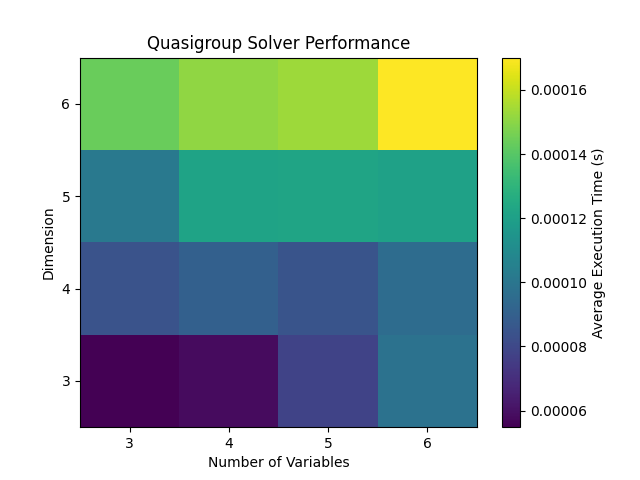
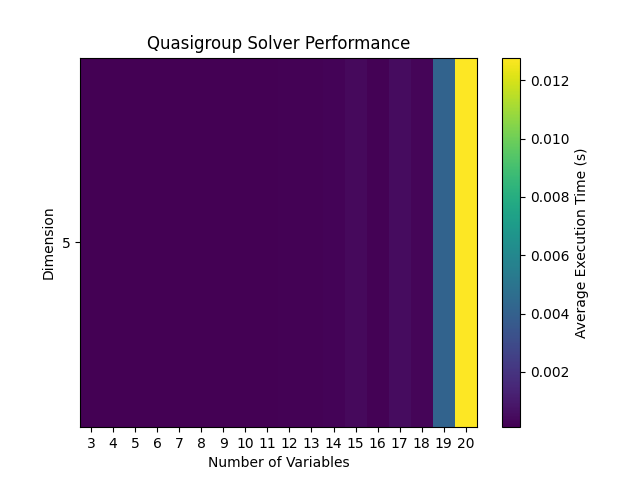
Quantum performance

diff --git a/solver.py b/solver.py
@@ -3,8 +3,70 @@ import argparse
 import copy
 import dimod
 import time
+import random
+import matplotlib.pyplot as plt
+import numpy as np
 from dimod.generators.constraints import combinations
 from hybrid.reference import KerberosSampler
+
+def generate_quasigroup_problem(dimension, num_variables):
+    # Genera un cuadrado latino completo
+    latin_square = [[(i + j) % dimension + 1 for i in range(dimension)] for j in range(dimension)]
+    
+    # Revuelve el cuadrado latino
+    random.shuffle(latin_square)
+    for row in latin_square:
+        random.shuffle(row)
+
+    # Quita algunas celdas para crear el problema de quasigroup with holes
+    variables_to_remove = num_variables
+    while variables_to_remove > 0:
+        i, j = random.randint(0, dimension - 1), random.randint(0, dimension - 1)
+        if latin_square[i][j] != 0:
+            latin_square[i][j] = 0
+            variables_to_remove -= 1
+
+    return latin_square
+
+def run_performance_tests(start_dim, end_dim, start_vars, end_vars):
+    performance_data = np.zeros((end_dim - start_dim + 1, end_vars - start_vars + 1))
+
+    for dim in range(start_dim, end_dim + 1):
+        for num_vars in range(start_vars, end_vars + 1):
+            times = []
+            for _ in range(10):
+                matrix = generate_quasigroup_problem(dim, num_vars)
+                start_time = time.time()
+                bqm = build_bqm(matrix)
+                result = solve_quasigroup(bqm, matrix)
+                end_time = time.time()
+
+                execution_time = end_time - start_time
+                times.append(execution_time)
+
+            avg_time = np.mean(times)
+            performance_data[dim - start_dim, num_vars - start_vars] = avg_time
+            print(f"Dimension: {dim}, Variables: {num_vars}, Avg. Time: {avg_time}")
+
+    return performance_data
+
+def plot_performance(performance_data, start_dim, end_dim, start_vars, end_vars):
+    fig, ax = plt.subplots()
+    cax = ax.imshow(performance_data, cmap="viridis", aspect="auto", origin="lower",
+                    extent=[start_vars - 0.5, end_vars + 0.5, start_dim - 0.5, end_dim + 0.5])
+
+    ax.set_xticks(range(start_vars, end_vars + 1))
+    ax.set_yticks(range(start_dim, end_dim + 1))
+    ax.set_xlabel("Number of Variables")
+    ax.set_ylabel("Dimension")
+    ax.set_title("Quantum Quasigroup Solver Performance")
+
+    cbar = fig.colorbar(cax)
+    cbar.set_label("Average Execution Time (s)")
+
+    plt.savefig("quantum_performance_heatmap.png")
+    plt.show()
+
 
 def get_label(row, col, digit, order):
     '''
@@ -102,6 +164,26 @@ def build_bqm(matrix):
 
     return bqm
 
+def run_test(filename):
+    matrix = get_matrix(filename)
+    bqm = build_bqm(matrix)
+    start_time = time.time()
+    result = solve_quasigroup(bqm, matrix)
+    end_time = time.time()
+
+    execution_time = end_time - start_time
+    print("Execution time:", execution_time)
+
+    if result:
+        for line in result:
+            print(*line, sep=" ")
+        if is_correct(result):
+            print("The solution is correct")
+        else:
+            print("The solution is incorrect")
+    else:
+        print("No solution found")
+
 def solve_quasigroup(bqm, matrix):
     '''
     Solve Quasigroup problem using KerberosSampler
@@ -132,47 +214,26 @@ def solve_quasigroup(bqm, matrix):
 
     return result
 
-def main(filename):
-    # Read Quasigroup problem as matrix
-    matrix = get_matrix(filename)
-
-    # Solve BQM and update matrix
-    bqm = build_bqm(matrix)
-
-    start_time = time.time()  # Start time measurement
-    result = solve_quasigroup(bqm, matrix)
-    end_time = time.time()  # End time measurement
-
-    elapsed_time = end_time - start_time
-    print("Quantum annealing took {:.2f} seconds to solve the problem.".format(elapsed_time))
-
-    # Print solution
-    print("Solution for", filename)
-    for line in result:
-        print(*line, sep=" ")   # Print list without commas or brackets
-
-    # Verify
-    if is_correct(result):
-        print("The solution is correct\n")
-    else:
-        print("The solution is incorrect\n")
-
-
-if __name__ == "__main__":
-    parser = argparse.ArgumentParser(description="Quasigroup With Holes problem solver")
-    parser.add_argument("filename", nargs="?", default="example.txt", help="Quasigroup problem file")
-    parser.add_argument("--test", action="store_true", help="Run tests from the 'tests' folder")
-
-    args = parser.parse_args()
-
+def main(args):
     if args.test:
         test_folder = "tests"
-        if not os.path.exists(test_folder):
-            print("Error: 'tests' folder not found.")
-        else:
-            for file in os.listdir(test_folder):
-                if file.endswith(".txt"):
-                    filepath = os.path.join(test_folder, file)
-                    main(filepath)
+        for file in os.listdir(test_folder):
+            if file.endswith(".txt"):
+                print(f"Testing {file}:")
+                run_test(os.path.join(test_folder, file))
+                print()
+    elif args.performance:
+        start_dim, end_dim, start_vars, end_vars = args.performance
+        performance_data = run_performance_tests(start_dim, end_dim, start_vars, end_vars)
+        plot_performance(performance_data, start_dim, end_dim, start_vars, end_vars)
     else:
-        main(args.filename)
+        run_test(args.file)
+
+if __name__ == "__main__":
+    parser = argparse.ArgumentParser(description="Solve Quasigroup with Holes using a quantum annealing approach with D-Wave")
+    parser.add_argument("--file", type=str, default="example.txt", help="Path to the problem file")
+    parser.add_argument("--test", action="store_true", help="Run tests from the 'tests' folder")
+    parser.add_argument("--performance", nargs=4, metavar=("START_DIM", "END_DIM", "START_VARS", "END_VARS"), type=int, help="Run performance tests with specified dimensions and number of variables")
+
+    args = parser.parse_args()
+    main(args)
